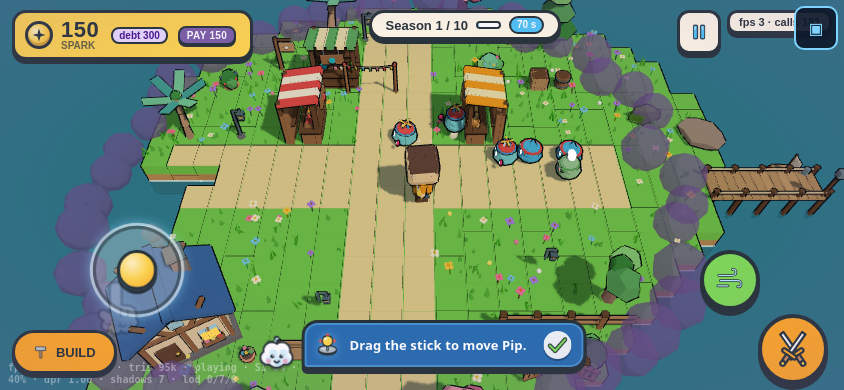
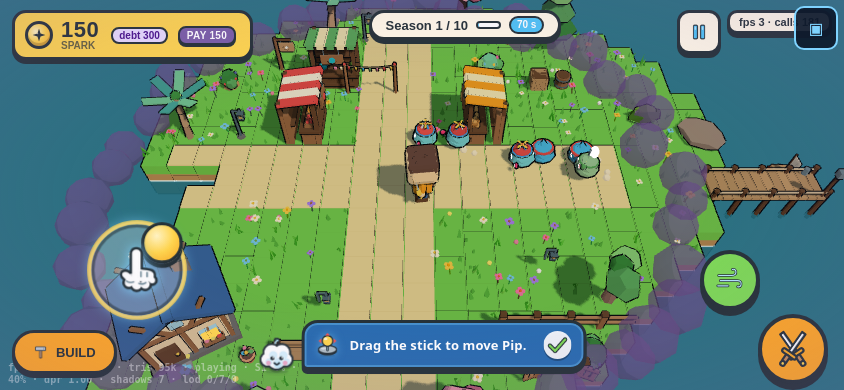
S66: GAME_VERSION S66, HANDOFF_S66 closing note + ID statuses (A,B done; C diagnosed; D,E,F open)

diff --git a/LUMEN/game/src/Game.js b/LUMEN/game/src/Game.js
@@ -779,7 +779,7 @@ function reseatHelpers(sb) {
 //   eco:win / eco:lose     → ending (8B finale lines) → story:finale → endless | title
 //   ui:pause {on, by}      pause reasons are OR-ed (menu ∨ dialogue ∨ ledger ∨ title) into game.paused — the only place that touches it.
 // Nothing here edits a system; it only constructs, routes and owns `lg.state`.
-export const GAME_VERSION = 'S65';   // S64 (2026-11-07): desktop tutor card rides above the open Build tray (S64-D); world taps are swallowed 0.7 s after a modal closes + ground tap never opens the Build tray during verb steps 0-2 (S64-A); cloud hand points at Build button / Jars tab / first-coin card / world jar / withdraw arrow, jar rows of unbuilt jars really hidden, jars panel un-collapses for the withdraw card (S64-B). Previous: S63 (2026-11-07): a tap on a jar = ONE deposit (no stuck hold), Stranger/Baron talk range 3.4 u + 0.25 s still, touch wording on jar tag + tray hint (S63-A..D). S62 (2026-11-07): placing ANY item (jar, decor, stall) ends the placing mode at once (S62-A, no red 'place another' ghost), tutor card lifts above the placing bar on phones + onBuildOpen card follows build:enter (S62-C), keyboard letters B/R hidden on touch (S62-D). Previous: S61 (2026-11-07): Move-step joystick demo fits very small phones (<= 360 px tall, no overlap with the card; cloud badge on <= 300 px), locate('ahead') reads screen-up from the camera (src/systems/aheadPoint.js, rotation-safe), notch-safe left offsets in tutor.css (S61-A/B/E). Previous: S60 (2026-11-07): Move card = drawn JOYSTICK demo on touch (cloud hand drags a simulated stick) / WASD keycaps + hand 6 u ahead on desktop (S60-A); the hand follows moving things LIVE and never points at a stale / invisible Stranger spot (S60-B); Owl opening split into 2 short bubbles (S60-C). Previous: S59 (2026-11-07): cloud tutor (Cloud says hello, drawn face_cloud), persistent blue cards + cloud hand pointer, drawn SKIP, jar reminder (jarRemind.js), storm chip icon (stormmark). Previous: S57 (2026-11-07): FUN_PASS T4 — friendly Stranger species (makeStranger, not Collector-shaped) walks in from the pier, strolls the plaza 25-40 s with a bell marker + edge arrow (ui/stranger.js), a sword never resolves them (whiff + owl 'Not an enemy. Talk to them.'), seasons.json strangers marks (S1 fair, S2 scam, then 1-2 per season, >= 1 in 3 fair), FAIRS deals (eco.offerFair), timeout = no penalty/reward. Gate --strangers 5/5. Previous: S56 (2026-11-06): FUN_PASS T2b + T3 — T2b Powers answer every press (hold = guide card on touch + desktop chips, ≤ 8-word answer pill, cooldown/busy/blocked lines, 6 touch chips with 4 dim, Shield/Stomp drain bar, whenHint in data/tutor.json, gate `--powers` 5/5). T3 Crew do visible jobs — src/systems/crewJobs.js: pier walk-in ≤ 3 s, posts (Owl→Save jar, Tortoise→Protect jar, Fox→pier, Mole→stalls, Bee circles busiest stall, Snail wanders + flowers) that need no stall, idle-work loop, payoff pops (+N / −N / +10% / 🛡 N / ! / 🌱) carrying the real numbers, Ledger Crew line, BFS paths, 1 InstancedMesh, gate `--crew` 8/8. S54 (2026-11-06): FUN_PASS T2 Curiosity guide — curiosity.js registry + curiosityWire.js (approach / linger / tap / HOLD / HUD data-guide), queued blue cards with maxShows + doneOn, pause GUIDE codex, tutorCounts in the save. S53 (2026-11-06): FUN_PASS T1 Jars — data/jars.json + jarUnlocks.js (Spend at start · Save on first till sweep · Protect at the storm warning · Invest after the S2 Ledger), tray lists unlocked jars only (NEW tag + tab pulse), tap a far jar → Pip auto-walks + deposits 10 ✦ (hero.inputOverride, 6 s timeout, cancels on stick/pause/modal), save field jarsUnlocked (additive v4) + legacy migration, verb chain deposit step unlocks Save + 'Build the Save jar' hint, FIX CONTINUE re-registers loaded jars (build:loaded), gate `--jars1` 10/10. S52 (2026-11-05): FUN_PASS T0 Debug panel — lg.debug hooks (installDebugHooks: grant/season/day/speed/stranger/wave/event/hire/clearTutor/resetSave/state/dump, n/a stubs for T1/T4/T7), ?debug=1 → src/debug/panel.js (aside#ll-debug, window.LUMEN_DEBUG), gate `--debug` 17/17. S51 (2026-11-04): phase 48 Hush — toasts/hero bark/touch buttons/pre-placed jars/verb chip deleted, blue once-only tutor cards. S50: phase 47 Measure-fix — telemetry counts dialogue time in modalSeconds (47A, PLAY_BUGS 45B-2), PERF.md 167 calls + ≤ 180 budget (47B, 45B-3). S49 (2026-11-04): phase 46 Quiet — comfort by deletion: verb chain waits for the opening dialogue (46A, PLAY_BUGS 45B-1), ?oldtutorial overlay deleted (46B), ?sliders legacy jars flag deleted + itch/GDD jars text fixed (46C). S48 (2026-11-04): phase 45 Ship v3 closed — itch page + 6 ship shots (45A), real-browser funnel + 13 gates + PLAY_BUGS (45B), final zip + Bible S48 (45C). S47 (2026-11-03): phase 44 closed — readable market: ♥/✓/✗ price bubbles + sign tint + E-on-sign price (44A), want bubbles + noStall leave (44B), season demand HOT/COLD fair× + PREFS× + sign glyph (44C), islands = NO (44D)
+export const GAME_VERSION = 'S66';   // S64 (2026-11-07): desktop tutor card rides above the open Build tray (S64-D); world taps are swallowed 0.7 s after a modal closes + ground tap never opens the Build tray during verb steps 0-2 (S64-A); cloud hand points at Build button / Jars tab / first-coin card / world jar / withdraw arrow, jar rows of unbuilt jars really hidden, jars panel un-collapses for the withdraw card (S64-B). Previous: S63 (2026-11-07): a tap on a jar = ONE deposit (no stuck hold), Stranger/Baron talk range 3.4 u + 0.25 s still, touch wording on jar tag + tray hint (S63-A..D). S62 (2026-11-07): placing ANY item (jar, decor, stall) ends the placing mode at once (S62-A, no red 'place another' ghost), tutor card lifts above the placing bar on phones + onBuildOpen card follows build:enter (S62-C), keyboard letters B/R hidden on touch (S62-D). Previous: S61 (2026-11-07): Move-step joystick demo fits very small phones (<= 360 px tall, no overlap with the card; cloud badge on <= 300 px), locate('ahead') reads screen-up from the camera (src/systems/aheadPoint.js, rotation-safe), notch-safe left offsets in tutor.css (S61-A/B/E). Previous: S60 (2026-11-07): Move card = drawn JOYSTICK demo on touch (cloud hand drags a simulated stick) / WASD keycaps + hand 6 u ahead on desktop (S60-A); the hand follows moving things LIVE and never points at a stale / invisible Stranger spot (S60-B); Owl opening split into 2 short bubbles (S60-C). Previous: S59 (2026-11-07): cloud tutor (Cloud says hello, drawn face_cloud), persistent blue cards + cloud hand pointer, drawn SKIP, jar reminder (jarRemind.js), storm chip icon (stormmark). Previous: S57 (2026-11-07): FUN_PASS T4 — friendly Stranger species (makeStranger, not Collector-shaped) walks in from the pier, strolls the plaza 25-40 s with a bell marker + edge arrow (ui/stranger.js), a sword never resolves them (whiff + owl 'Not an enemy. Talk to them.'), seasons.json strangers marks (S1 fair, S2 scam, then 1-2 per season, >= 1 in 3 fair), FAIRS deals (eco.offerFair), timeout = no penalty/reward. Gate --strangers 5/5. Previous: S56 (2026-11-06): FUN_PASS T2b + T3 — T2b Powers answer every press (hold = guide card on touch + desktop chips, ≤ 8-word answer pill, cooldown/busy/blocked lines, 6 touch chips with 4 dim, Shield/Stomp drain bar, whenHint in data/tutor.json, gate `--powers` 5/5). T3 Crew do visible jobs — src/systems/crewJobs.js: pier walk-in ≤ 3 s, posts (Owl→Save jar, Tortoise→Protect jar, Fox→pier, Mole→stalls, Bee circles busiest stall, Snail wanders + flowers) that need no stall, idle-work loop, payoff pops (+N / −N / +10% / 🛡 N / ! / 🌱) carrying the real numbers, Ledger Crew line, BFS paths, 1 InstancedMesh, gate `--crew` 8/8. S54 (2026-11-06): FUN_PASS T2 Curiosity guide — curiosity.js registry + curiosityWire.js (approach / linger / tap / HOLD / HUD data-guide), queued blue cards with maxShows + doneOn, pause GUIDE codex, tutorCounts in the save. S53 (2026-11-06): FUN_PASS T1 Jars — data/jars.json + jarUnlocks.js (Spend at start · Save on first till sweep · Protect at the storm warning · Invest after the S2 Ledger), tray lists unlocked jars only (NEW tag + tab pulse), tap a far jar → Pip auto-walks + deposits 10 ✦ (hero.inputOverride, 6 s timeout, cancels on stick/pause/modal), save field jarsUnlocked (additive v4) + legacy migration, verb chain deposit step unlocks Save + 'Build the Save jar' hint, FIX CONTINUE re-registers loaded jars (build:loaded), gate `--jars1` 10/10. S52 (2026-11-05): FUN_PASS T0 Debug panel — lg.debug hooks (installDebugHooks: grant/season/day/speed/stranger/wave/event/hire/clearTutor/resetSave/state/dump, n/a stubs for T1/T4/T7), ?debug=1 → src/debug/panel.js (aside#ll-debug, window.LUMEN_DEBUG), gate `--debug` 17/17. S51 (2026-11-04): phase 48 Hush — toasts/hero bark/touch buttons/pre-placed jars/verb chip deleted, blue once-only tutor cards. S50: phase 47 Measure-fix — telemetry counts dialogue time in modalSeconds (47A, PLAY_BUGS 45B-2), PERF.md 167 calls + ≤ 180 budget (47B, 45B-3). S49 (2026-11-04): phase 46 Quiet — comfort by deletion: verb chain waits for the opening dialogue (46A, PLAY_BUGS 45B-1), ?oldtutorial overlay deleted (46B), ?sliders legacy jars flag deleted + itch/GDD jars text fixed (46C). S48 (2026-11-04): phase 45 Ship v3 closed — itch page + 6 ship shots (45A), real-browser funnel + 13 gates + PLAY_BUGS (45B), final zip + Bible S48 (45C). S47 (2026-11-03): phase 44 closed — readable market: ♥/✓/✗ price bubbles + sign tint + E-on-sign price (44A), want bubbles + noStall leave (44B), season demand HOT/COLD fair× + PREFS× + sign glyph (44C), islands = NO (44D)
 // S46 (prev):   // S46 (2026-11-03): phase 43 closed — season scripts (data/seasons.json), 5 novelties (storm/night/baron/picky/raidDouble), rotation S7–10 + endless, NEW chip, save v3.
 // S44 (prev):   // S44 (2026-11-01): BUGFIX speed ×2/×3 + Spark Storm "stretched characters" — JellySpring fixed sub-step 1/120 s + clamp, setSquash clamped [0.3, 2.5]; tests/spring.test.mjs. Game_Bible S44.md in LUMEN_extras/
 // S43 history:   // S43 (2026-11-01): 16B P1 — src/combat/Combat.js 3-hit sword combo (slash1 forehand / slash2 backhand / slash3 spin, power 1/1/2) with input buffering + soft lock-on (≤5 u, ±70°), installCombat(sb) · check.mjs --combat. Game_Bible S43.md in LUMEN_extras/

diff --git a/LUMEN/game/docs/HANDOFF_S66.md b/LUMEN/game/docs/HANDOFF_S66.md
@@ -18,12 +18,12 @@ No daily-login guilt, no streaks. Do NOT add enemy types.
 ## ID table (status column is the only truth)
 | ID | Ask | Status |
 |---|---|---|
-| **S66-A** | Eliminate the Spend jar as a thing you build/walk to (Spend = your pouch). The jars panel row is just "Spend" (bar + number stay). Fix tutorial cards that mention the Spend jar | this chat |
-| **S66-B** | Eliminate Endless mode (title button, ledger "ENDLESS MODE", `goEndless`, unlock, HUD "Endless" text). After the win: finale -> Lighthouse cinematic -> credits-style ledger -> title | this chat |
-| **S66-C** | Tutorial: a point already told is never shown again (even after a reload / other trigger), only NEW things; Season 1 three stars must be reachable by doing what the tutorial says (diagnose + fix, prove with a rig) | this chat |
-| **S66-D** | EPIC Lighthouse cinematic (lots of fog, lamp turns on, beam burns the fog away, slow dolly zoom in/out, returns to normal play). Smooth camera, skippable, reduce-motion safe | this chat starts it, S67 finishes |
-| **S66-E** | Procedural icon sheet for new icons, screenshot, PNG slice | this chat (as needed) |
-| **S66-F** | Final review: screenshots at 844x390 + 1280x720, analyse for a beginner | this chat |
+| **S66-A** | Eliminate the Spend jar as a thing you build/walk to (Spend = your pouch). The jars panel row is just "Spend" (bar + number stay). Fix tutorial cards that mention the Spend jar | DONE (gates green; no phone screenshot of the panel yet) |
+| **S66-B** | Eliminate Endless mode (title button, ledger "ENDLESS MODE", `goEndless`, unlock, HUD "Endless" text). After the win: finale -> Lighthouse cinematic -> credits-style ledger -> title | DONE (credits screen still missing) |
+| **S66-C** | Tutorial: a point already told is never shown again (even after a reload / other trigger), only NEW things; Season 1 three stars must be reachable by doing what the tutorial says (diagnose + fix, prove with a rig) | **OPEN - NEXT CHAT FIRST** (diagnosis done, nothing coded) |
+| **S66-D** | EPIC Lighthouse cinematic (lots of fog, lamp turns on, beam burns the fog away, slow dolly zoom in/out, returns to normal play). Smooth camera, skippable, reduce-motion safe | **OPEN, not started** (existing `CinematicDirector` 'victory' shot in `src/vfx/cinematics.js` is a 7 s fly-to + lamp; needs fog, beam sweep, dolly zoom, return) |
+| **S66-E** | Procedural icon sheet for new icons, screenshot, PNG slice | OPEN (no new icon was needed in A/B; needed for Focus/Boons/THE END) |
+| **S66-F** | Final review: screenshots at 844x390 + 1280x720, analyse for a beginner | OPEN (only title + opening shots were looked at, both fine) |
 | **S67** | **Focus meter + Boon Draft** (the strategy fix). Design below | next chat 1 |
 | **S68** | **Wishes + Neighbours** (cozy hook) | next chat 2 |
 | **S69** | **Open the Regions** (data/regions.json is unwired) | next chat 3 |
@@ -57,3 +57,10 @@ A Neighbours page in the pause menu (journal style, like `ui/journal.js`). Save:
 - **S66-A DONE (gates green)**: Spend jar is no longer a buildable (`DECOR_PROPS.jar_spend` removed, `JAR_IDS` = save/invest/protect, build tray / debug panel / jarRemind / curiosity list / tutor card `jar:spend` removed). The jars panel keeps the **Spend** row always visible (bar + number = pouch + spend balance, no withdraw arrow); panel itself stays hidden until a real jar stands. Old saves: `jar_spend` build entries are dropped in `parseSnapshot`, `LEGACY_JAR_ROW` has 3 rows, the spend balance in `eco.state.jars.spend` is untouched. Texts fixed in `data/story.json` (budgeting tip, t_firstpay, t_jars), `ui/seasons.js`, `data/tutor.json` (onFirstCoin, onJarsTab). Tests: `save.test.mjs` 13, `check.mjs --jars1` (T1.3 "empty-land tap opens tray" fails identically on the pre-S66 commit 684102d - NOT caused by S66, still open), `--jarsworld` ALL OK.
 - **S66-B DONE (`check.mjs --game`, `--save`, `--ui` ALL OK)**: Endless removed. Title has PLAY / CONTINUE only (E key dead, `ui:start{endless}` falls back to story, old endless saves resume as story). Win flow: `eco:win` -> victory cinematic -> farewell lines (story.json key `endlessUnlock` kept, text rewritten, `story:finale {endless:false}`) -> ledger button **THE END ▸** -> `lg.finishRun()` (clears the save, emits `game:won`, `lg.toTitle('win')`). `goEndless`, state `'endless'`, `game:endless`, the `lumen.unlocks.endless` write, `?endless`, HUD/season-card "Endless · S11" text are gone. NOT yet done: a real credits / "thanks for playing" screen after THE END (title appears directly) -> S66-D/S70 should add it after the cinematic. `Save.unlocks/hasWon/setUnlock` helpers still exist (unused).
 - **S66-C DIAGNOSIS (root cause of "following the tutorial never gives 3 stars")**: `economy.endSeason` star 3 = `debt <= debtBefore && fog01 <= fogBefore`, but `fogDelta += fogPerDebtSeason (0.07)` whenever `debt > 0` at season end. With `startDebt 300` and a 70 s S1, fog CAN NOT stay flat unless the whole 300 debt is repaid in S1 -> star 3 is unreachable in S1 (and every season until the debt is gone). Headless probe (`/tmp/s1stars.mjs`, `makeEconomy`): 8 sales + save 10 = 0 stars, 8 sales + save 30 = 1 star, 15 sales + save 30 + repay 100 = 2 stars, never 3. The tutorial also never mentions repaying or the star goals. Fix plan: (1) fair star-3 rule (debt not up AND you repaid >= the interest the Baron charged, OR fog held), (2) the Ledger shows the 3 goals as a checklist so a player knows what is missing, (3) one S1 tutor card that teaches PAY.
+
+### CLOSING NOTE of chat S66 (read before doing anything)
+- Pushed commits: P1 plan, A part1/2, B, C diagnosis, version bump (GAME_VERSION = S66). All on origin/main.
+- Green: `node --test tests/{save,story,economy,jarRemind,tutor,curiosity,unlocks,verbs,seasons,regions,spring,telemetry}.test.mjs`, `node tools/check.mjs --game|--save|--ui|--jarsworld`. Red (pre-existing, not S66): `--jars1` T1.3 "empty-land tap opens tray". The full `node tools/check.mjs` was NOT run end to end this chat - do it first.
+- Browser works (Playwright + chromium + libs installed per rule 4, server on :3000). Rig `tools/play_s66base.mjs W H` boots the story, passes cinematic + dialogue, and confirms the verb chain starts at step 0 (`verb:move` card). It does not move Pip, so it idles at step 0 - that is the rig, not a bug. No console errors after S66-A/B.
+- **S66-C is the next job**: (1) fair 3rd star in `economy.endSeason` (see diagnosis above; keep `tests/economy.test.mjs` line 107-111: perfect season = 3, idle with debt = 0; re-run `node tests/economy.sim.mjs` strategies), (2) Ledger shows the 3 star goals as a checklist (`ui/ledger.js`), (3) a verb/tutor card that teaches PAY (S1 has none), (4) repetition: write a rig that plays S1 with real taps and lists `tutor:shown` ids per 10 s; cards that share a point (`onFirstCoin`, `onJarsTab`, `jar:add`, `verb:deposit`, `hud:pouch` all say "coins/jars") must collapse into one `group` rule: once any card of a group with the same `lesson` key was shown, later ones with that key are retired (add a `teaches` field to data/tutor.json and a retire-by-teaches in `ui/tutor.js display()`), counts persist in `tutorCounts`.
+- Then S66-D (cinematic), then S67 (Focus + Boons), S68, S69, S70 as designed above.
